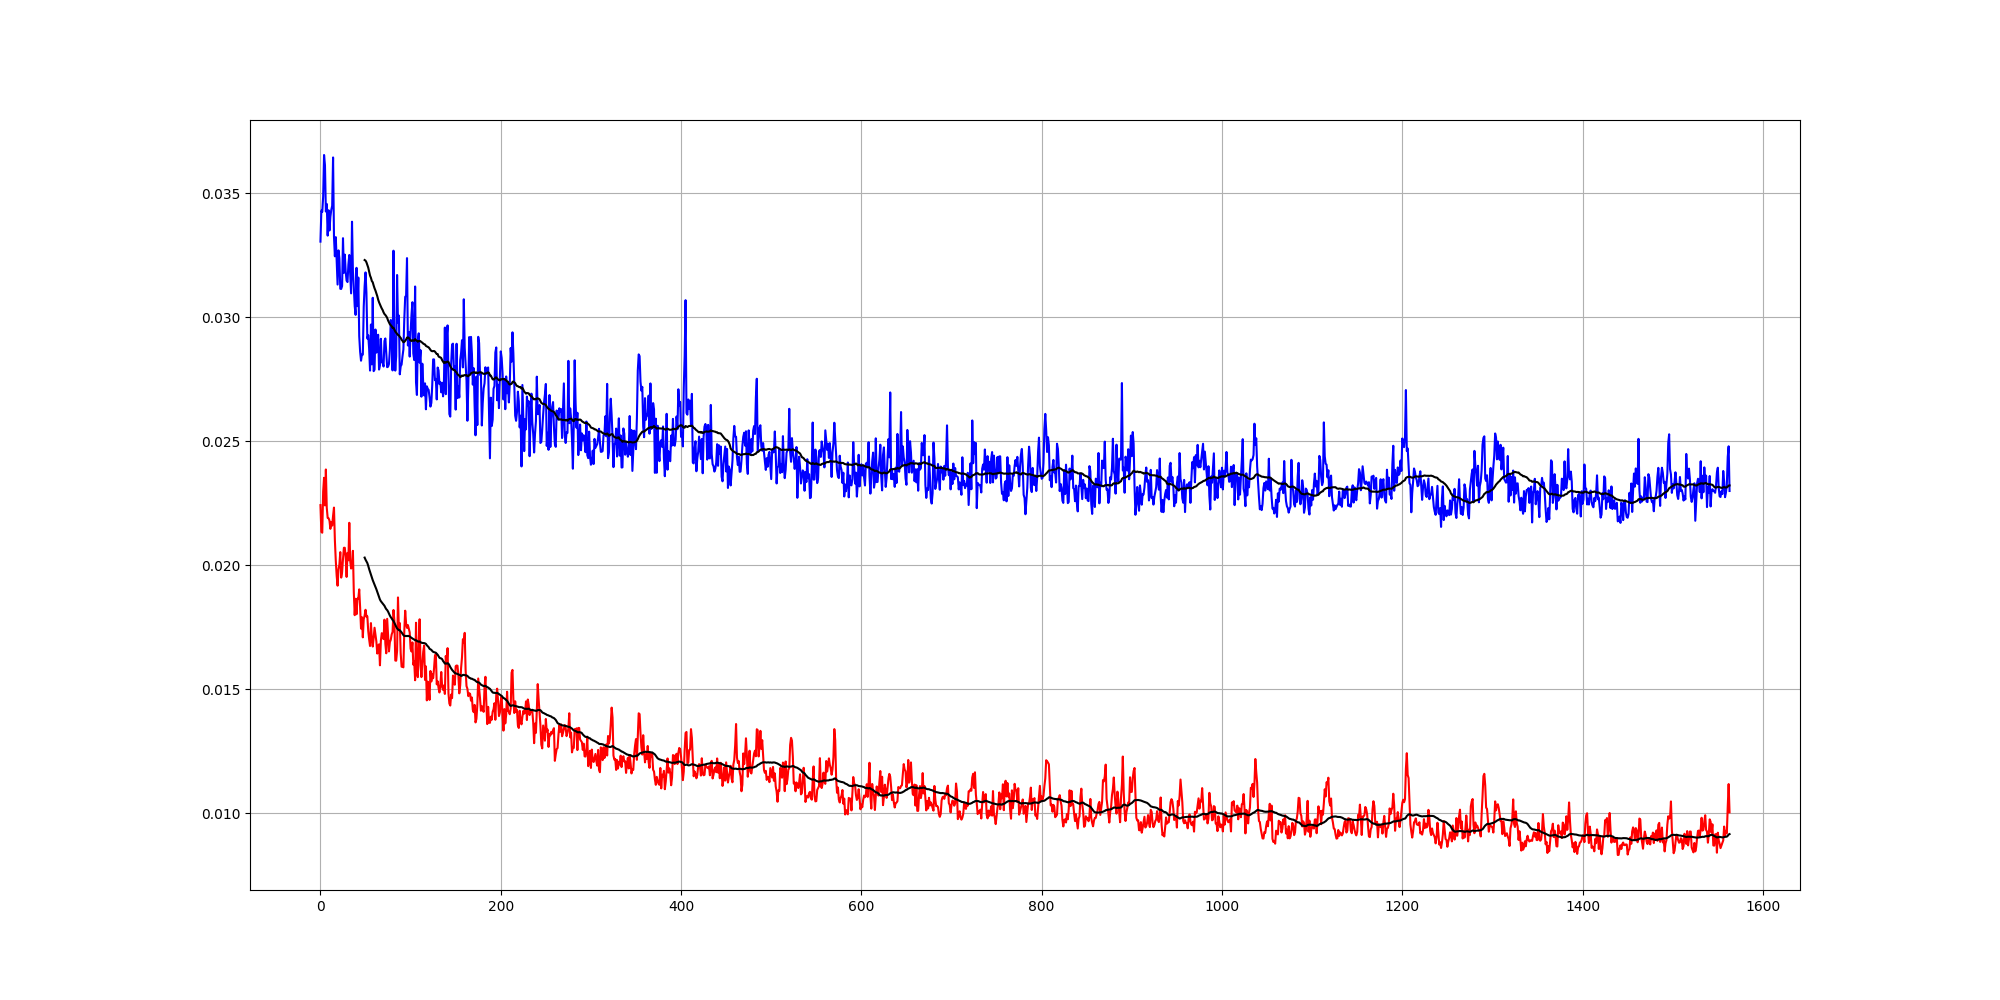
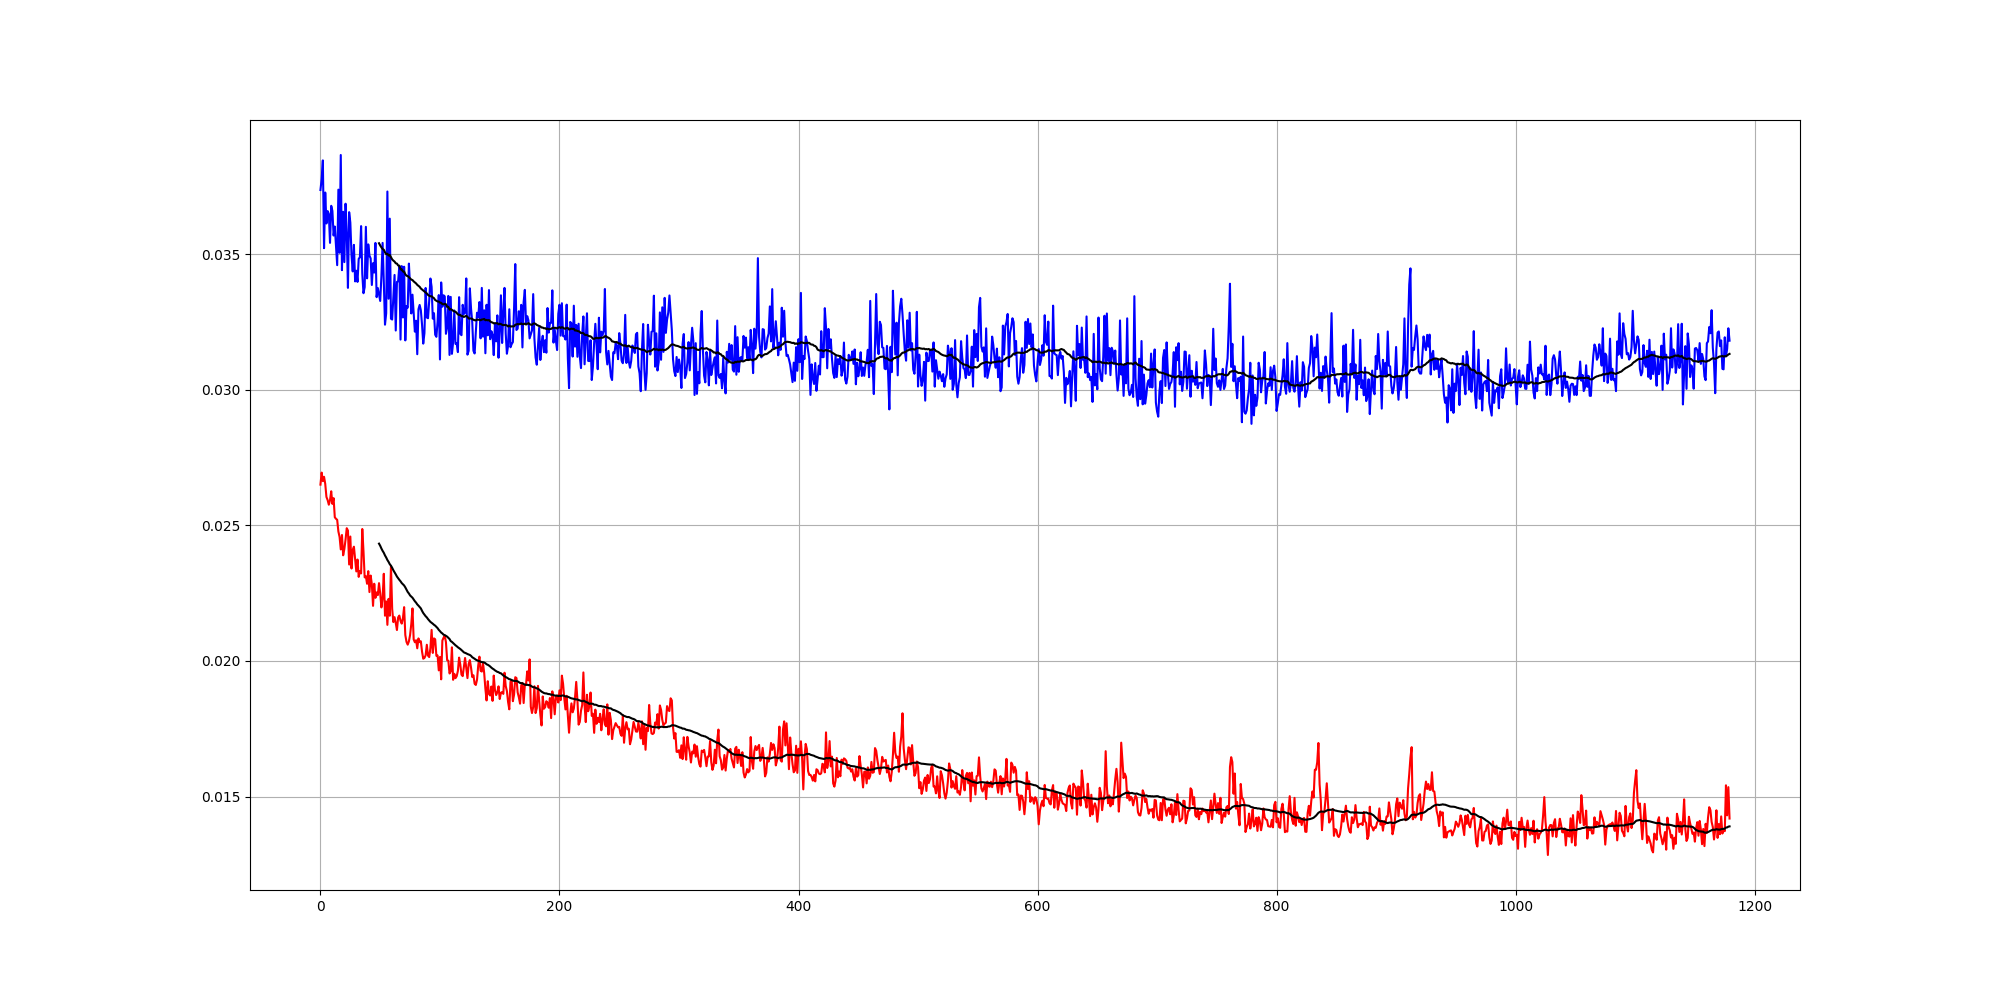
Update

diff --git a/tensorflow-test/main.py b/tensorflow-test/main.py
@@ -22,19 +22,19 @@ storage.init()
 images = storage.get_info_by_key()
 
 
-# t.save_train_data(images)
+t.save_train_data(images)
 # t.save_predict_data(images)
 
 m.train(
-    batch_size=240,
+    batch_size=160,
     epoch_size=10000 ,
-    conv_factor=32,
-    dense_base=1024,
+    conv_factor=128,
+    dense_base=128,
     sma=50,
     remove = 100,
 )
 
-# p.predict(storage)
+p.predict(storage)
 
 
 winsound.PlaySound("SystemExit", winsound.SND_ALIAS)

diff --git a/tensorflow-test/nn_model.py b/tensorflow-test/nn_model.py
@@ -85,7 +85,7 @@ def train_model(
 
     callback = tf.keras.callbacks.EarlyStopping(
         monitor='val_loss', 
-        patience=320,
+        patience=400,
         restore_best_weights=True,
         verbose=1,
         )

diff --git a/tensorflow-test/constant.py b/tensorflow-test/constant.py
@@ -2,4 +2,4 @@ resized_key = 'resized'
 resized_predict_key = 'resized_predict'
 original_key = 'original'
 
-factor = 40
+factor = 15
